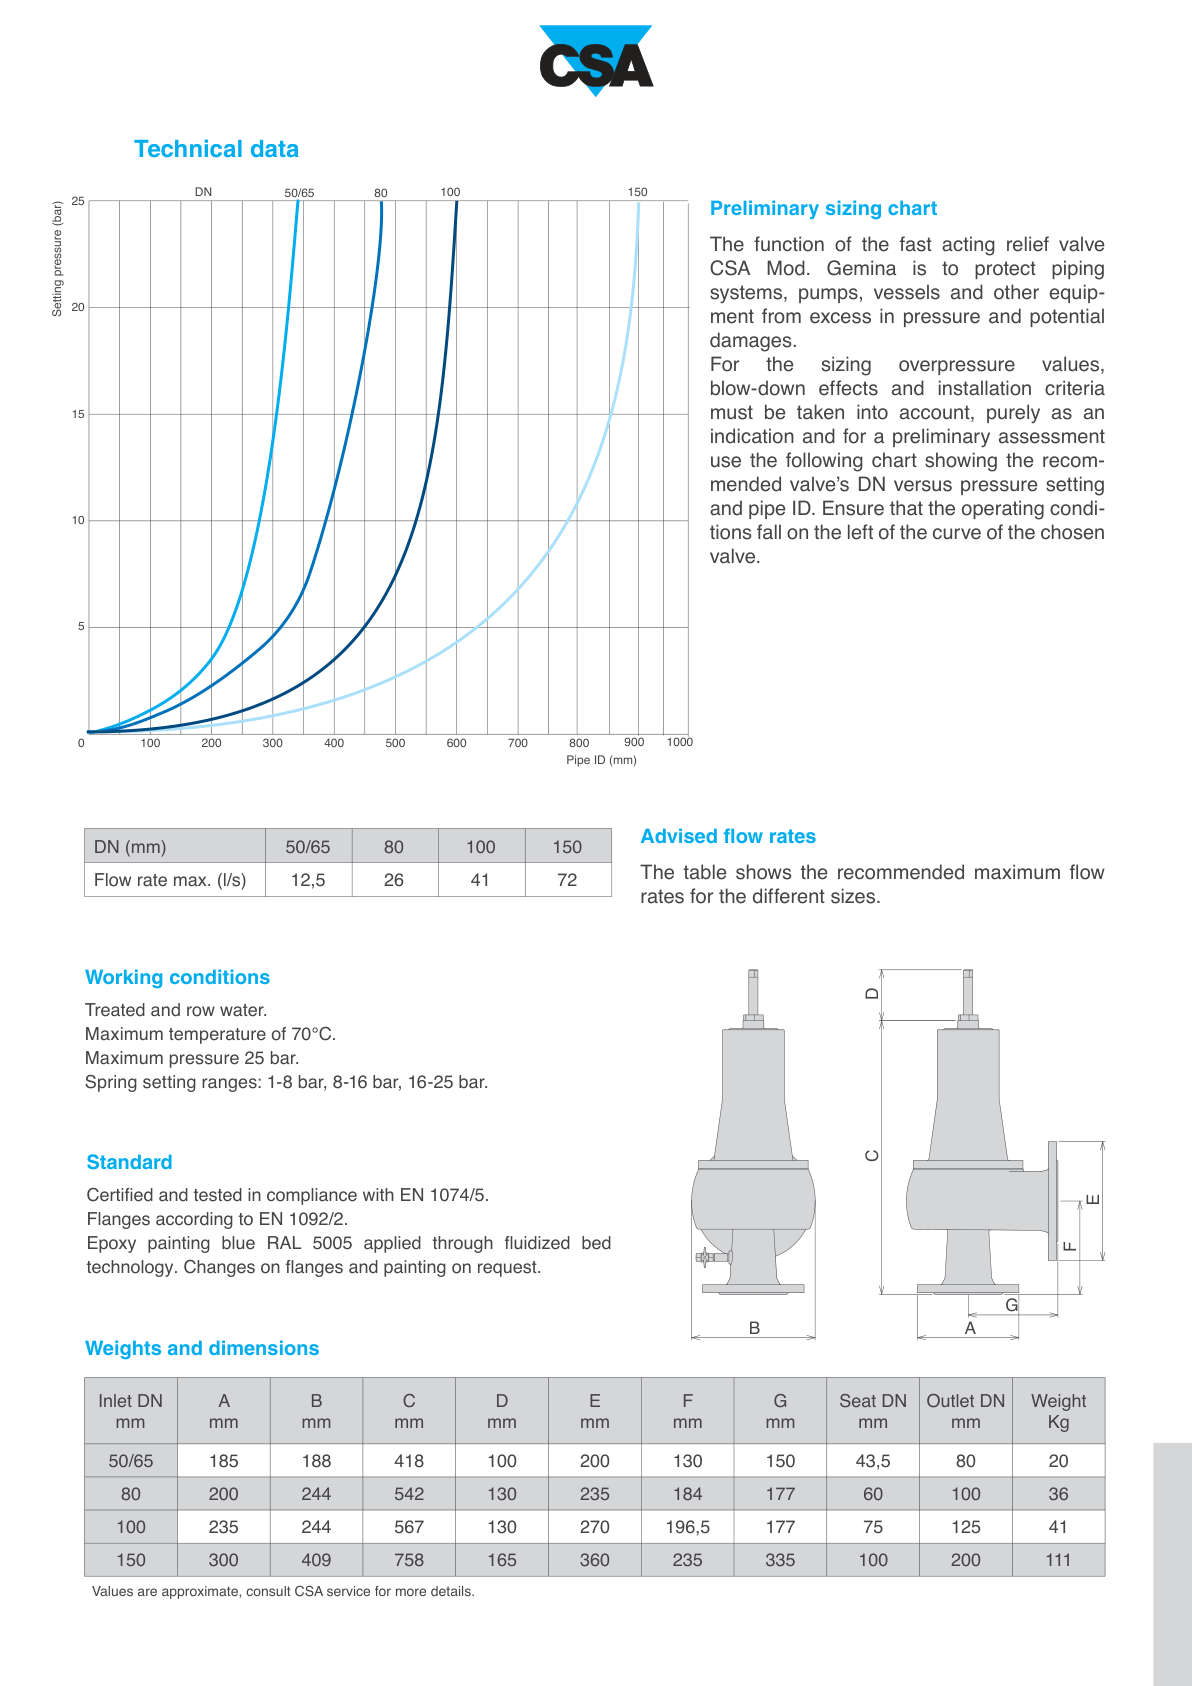
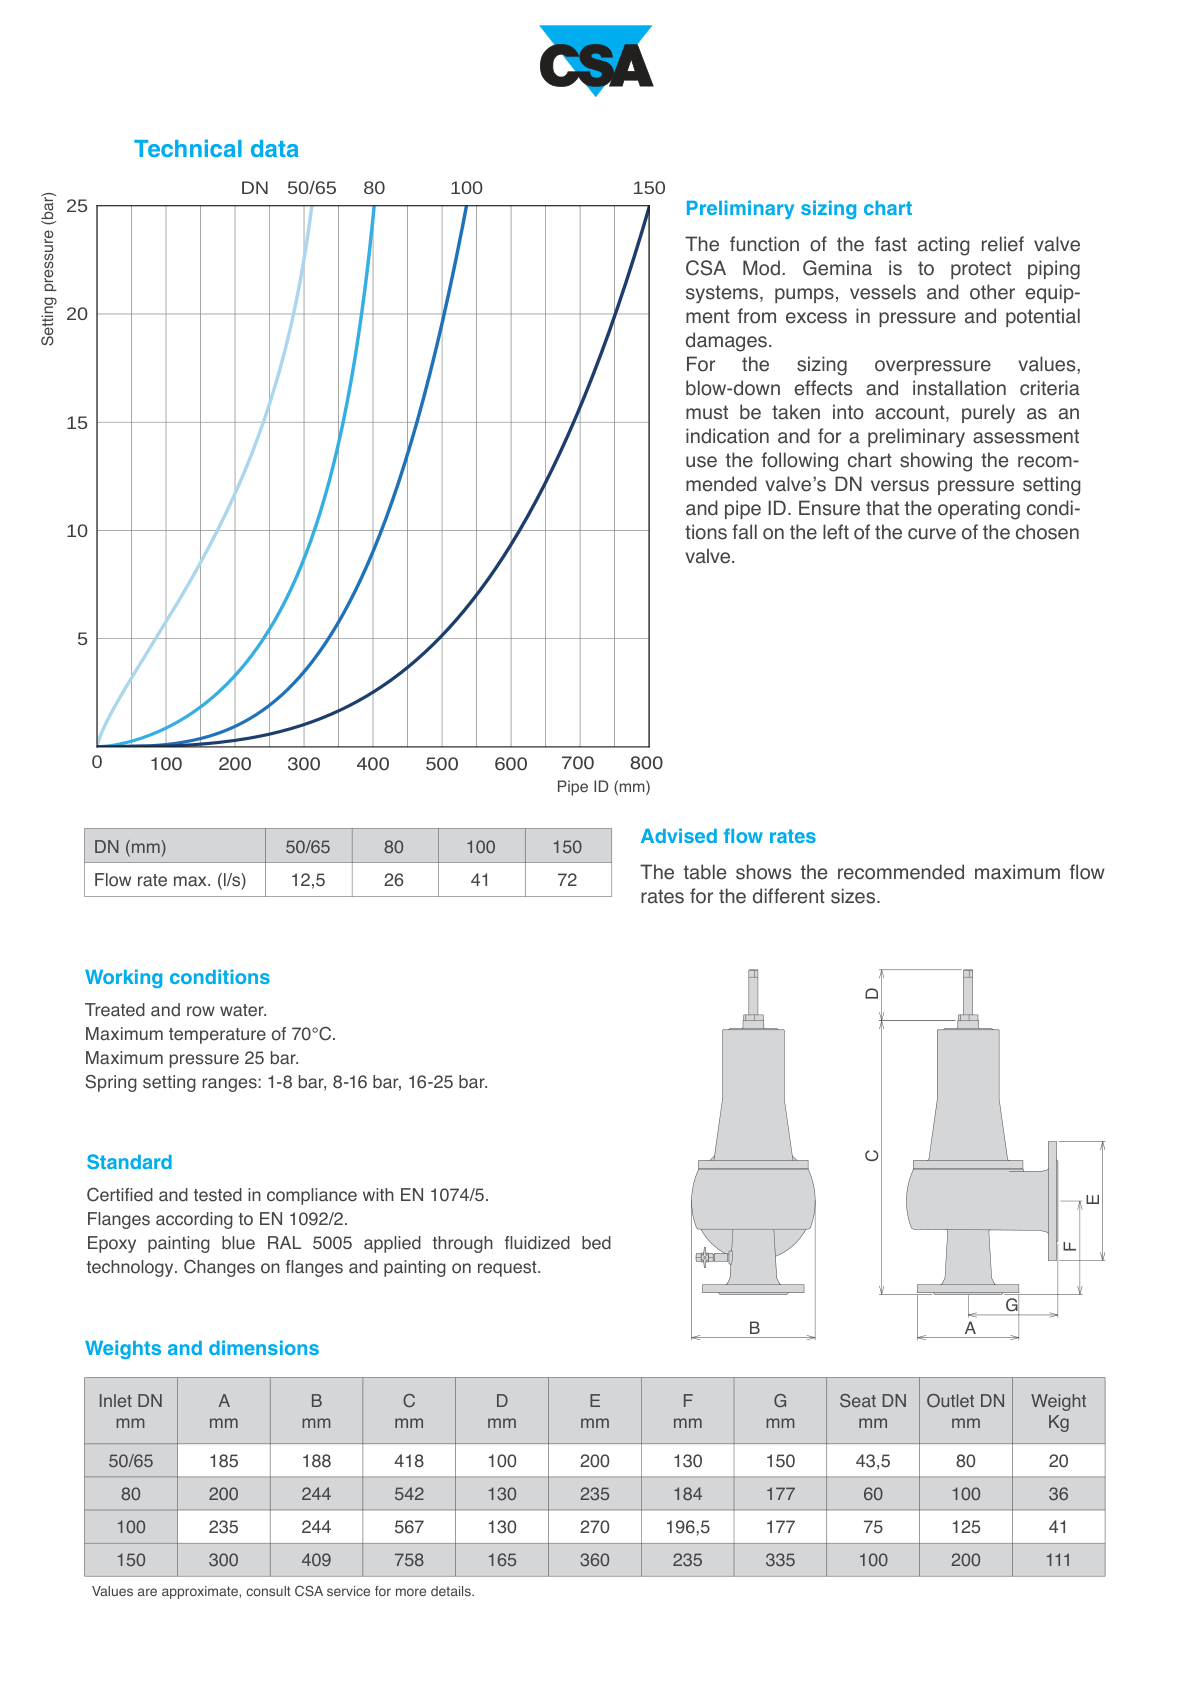
fix: catalogue chunk ids collided, silently dropping 16% of the catalogue
The chunk counter restarted at zero for every block on a page, so a page with
two tables produced cat_<page>_table_0 twice and the second overwrote the
first. On this catalogue that is 412 chunks of 2516 — 16% — across 158 pages,
and the ingest still reported "2516 vectors upserted", which is why it went
unseen. It hit hardest exactly where the technical data lives: pages carrying
several tables kept only the last one. The id now includes the block index;
2516 chunks now yield 2516 distinct ids.

Found while recomputing ids to clear superseded vectors after the corpus
update, not by a failing answer.

Also in this change, the document refresh the user asked for:
- 12 datasheets updated to their June revisions (SCF and variants, VRCD_XN,
  XLC 325/340/350/510)
- catalogue replaced with the v2 revision, and GEMINA.pdf with its 2026 sheet:
  the Gemina DN 150 Kv moved 273 -> 330. The Italian and English 2026 documents
  agree on 330; catalogue and datasheet were updated together, since updating
  one alone would have left both figures in the corpus for the model to pick
  from. Previous corpus kept in docs/_backup_2026-09-02.
- whole corpus re-ingested so the per-table captions apply everywhere, not
  just to the one sheet they were built for

Regression battery 51 -> 55 cases (the Gemina Kv in Italian and English, the
updated SCF and XLC 350), 55/55 green. 150 unit tests green.

Changed region(s): [[0.031, 0.0925, 0.9312, 0.4935], [0.9622, 0.8327, 1.0, 1.0]]

diff --git a/ingest/catalog_ingest.py b/ingest/catalog_ingest.py
@@ -312,14 +312,21 @@ def ingest_catalog(pdf_path: Path, oai: OpenAI, index) -> int:
 
                 valve_models = detect_valve_models(full_text) if full_text else ""
 
-                for block in blocks:
+                for block_idx, block in enumerate(blocks):
                     content = block["content"]
                     content_type = block["type"]
                     chunks = chunk_text(content)
 
                     for chunk_idx, chunk in enumerate(chunks):
-                        # Build a stable ID using a hash of content
-                        raw_id = f"cat_{page_num}_{content_type}_{chunk_idx}"
+                        # L'indice del blocco fa parte dell'identificativo. Senza
+                        # di esso chunk_idx ripartiva da zero a ogni blocco, e
+                        # due tabelle sulla stessa pagina finivano sullo stesso
+                        # id: la seconda cancellava la prima. Su questo catalogo
+                        # erano 412 pezzi su 2516 (il 16%), sparsi su 158 pagine,
+                        # e l'ingestione dichiarava comunque 2516 vettori
+                        # scritti. Le pagine con piu tabelle — proprio quelle
+                        # con i dati tecnici — ne conservavano una sola.
+                        raw_id = f"cat_{page_num}_{content_type}_{block_idx}_{chunk_idx}"
                         chunk_id = raw_id  # keep readable
 
                         all_records.append({

diff --git a/tools/verify_answers.py b/tools/verify_answers.py
@@ -98,6 +98,18 @@ CASI = [
     ("Quanto pesa la XLC 330 DN 80?", ["24"], ["20"]),
     ("Qual e la gamma di diametri DN disponibile per la serie XLC 500?", ["200"], []),
     ("In che materiale e la membrana del serbatoio SPT?", ["NBR"], ["EPDM"]),
+    # --- Aggiornamento cataloghi del 02/09/2026 ---
+    # Il Kv della Gemina DN 150 e' passato da 273 a 330 nei documenti 2026
+    # (italiano e inglese concordi). Catalogo e scheda sono stati allineati
+    # insieme: se uno solo dei due fosse aggiornato il bot risponderebbe
+    # l'uno o l'altro a caso, ed e' proprio la classe di difetto che
+    # l'audit aveva chiuso.
+    ("Qual e il Kv della valvola Gemina DN 150?", ["330"], ["273"]),
+    ("What is the Kv of the Gemina DN 150?", ["330"], ["273"]),
+    # Schede aggiornate a giugno: controllo che restino leggibili dopo la
+    # reingestione con le didascalie sopra le tabelle.
+    ("Quanto pesa lo sfiato SCF flangiato DN 100?", ["40"], ["29"]),
+    ("Qual e la pressione massima di esercizio della XLC 350?", ["16"], ["25"]),
     ("Quanto pesa la valvola Gemina FF?", ["2,3"], ["12"]),
     # Tre tabelle sulla stessa pagina, e la riga della 1"-1 1/4" non ha nemmeno
     # la colonna DN: senza la didascalia il modello leggeva un numero dal testo

diff --git a/PROGETTO.md b/PROGETTO.md
@@ -29,7 +29,7 @@ Quattro sorgenti, tutte ricostruibili con `python -m ingest.run_all`:
 | Sorgente | Script | Namespace | Contenuto |
 |----------|--------|-----------|-----------|
 | Schede tecniche PDF (115 file) | `ingest/pdf_ingest.py` | default | Schede prodotto in inglese |
-| Catalogo generale | `ingest/catalog_ingest.py` | `catalog` | Catalogo italiano con metadati per famiglia |
+| Catalogo generale | `ingest/catalog_ingest.py` | `catalog` | Catalogo italiano con metadati per famiglia (2516 chunk) |
 | XLC engineering (IT/EN/FR/ES) | `ingest/xlc_ingest.py` | default | Riferimento aggiornato su serie XLC 300/400 |
 | Contenuto sito csasrl.it | `ingest/site_crawler.py` | default | Testo delle pagine del sito, in 4 lingue |
 
@@ -226,6 +226,14 @@ condivisa: prima no, e le righe fuse del catalogo restavano fuse.)
   letta da un numero del testo speculare della barra laterale. Una didascalia
   sbagliata sarebbe peggio di nessuna, quindi il filtro scarta code di
   paragrafo, righe di assi e artefatti a lettere doppie.
+- **Un identificativo per blocco, non per pagina** (`ingest/catalog_ingest.py`):
+  il contatore dei pezzi ripartiva da zero a ogni blocco della pagina, quindi
+  due tabelle sulla stessa pagina finivano sullo stesso id e la seconda
+  cancellava la prima. Su questo catalogo erano **412 pezzi su 2516 (il 16%),
+  sparsi su 158 pagine** — e l'ingestione dichiarava comunque 2516 vettori
+  scritti, per questo non si era mai visto. Colpiva proprio le pagine con piu
+  tabelle, cioe' quelle con i dati tecnici. Trovato il 02/09/2026 mentre si
+  ricalcolavano gli id per ripulire i vettori superati.
 - **Il contesto sta in fondo al prompt**, dopo tutte le regole: quando stava in
   mezzo, le regole che lo seguivano venivano ignorate (il bot inventava il Kv di
   una taglia inesistente). Il blocco dichiara anche che il testo recuperato è
@@ -379,11 +387,14 @@ vettori delle pagine orfane.
   lo SMART non e' nell'indice. Unico difetto dell'audit del 30/08/2026 ancora
   aperto: si chiude con `python -m ingest.site_crawler`, che pero' riscrive i
   vettori del sito nell'indice condiviso con la produzione.
-- **Didascalie delle tabelle solo su ATHENA_114.pdf**: `ingest/pdf_extract.py`
-  ora antepone a ogni tabella la sua didascalia, ma il beneficio vale solo per
-  i documenti reingeriti. Finora e' stata rigenerata la sola ATHENA_114.pdf
-  (il difetto che l'aveva motivata). Le altre pagine con piu tabelle uguali
-  restano ambigue finche non si rifa l'ingestione.
+- ~~Didascalie solo su ATHENA_114.pdf~~ — **chiuso il 02/09/2026**: reingerito
+  l'intero corpus (115 schede, XLC engineering, catalogo) con le didascalie.
+- **Aggiornamento documenti del 02/09/2026**: installate 12 schede aggiornate a
+  giugno (SCF e varianti, VRCD_XN, XLC 325/340/350/510), il catalogo `v2` e la
+  scheda GEMINA. Il Kv della Gemina DN 150 e' passato da 273 a **330**: i
+  documenti "2026" italiano e inglese concordano, catalogo e scheda sono stati
+  allineati **insieme** (aggiornarne uno solo avrebbe lasciato entrambi i valori
+  nel corpus). Il corpus precedente e' in `docs/_backup_2026-09-02`.
 
 - **`"CSA è certificata secondo la UNI EN 558?"` è il caso instabile della
   batteria**: su tre esecuzioni consecutive è fallito due volte e passato una,
